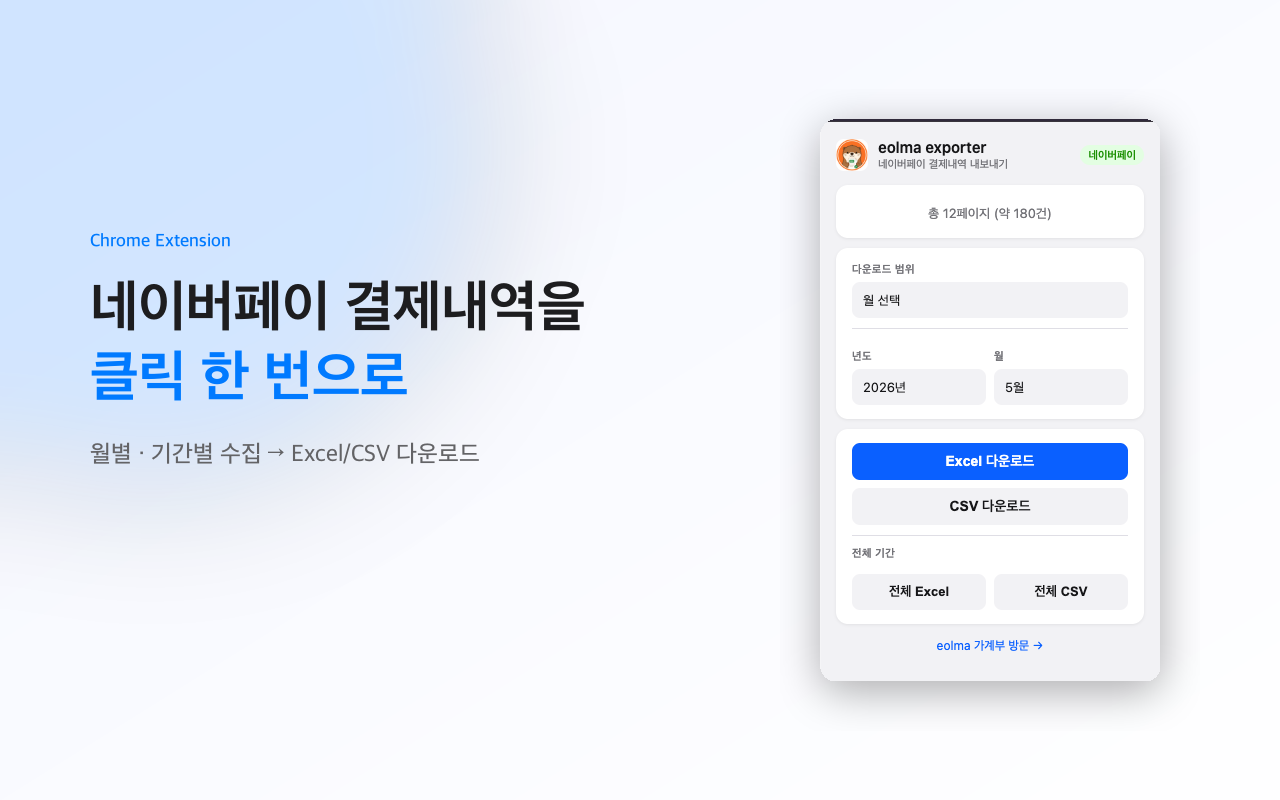
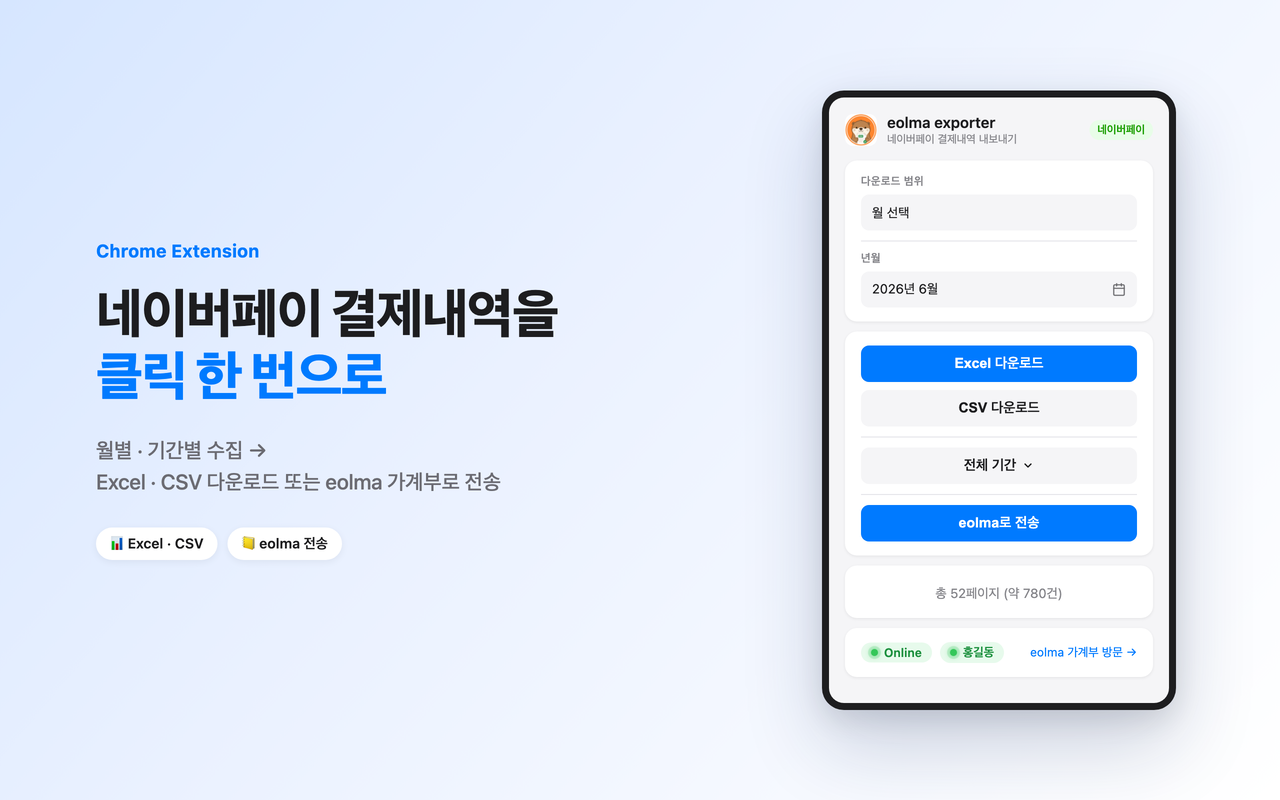
chore(store): refresh screenshots to v0.2.0 and add promo tile
Recompose KO store screenshots (1280x800) in the v0.1.0 design language
for the v0.2.0 UI (year-month unified, eolma upload, Online/login pills):
naverpay/coupang heroes + browser-context scene. Add 440x280 promo tile
and raw popup captures under raw/. Archive v0.1.0 shots to changes/v0.1.0/.

diff --git a/screenshots/README.md b/screenshots/README.md
@@ -1,0 +1,39 @@
+# 스토어 에셋
+
+Chrome 웹 스토어 등록용 이미지. **현재 버전: v0.2.0** (한국어).
+
+## 스토어 스크린샷 (1280×800)
+
+v0.1.0 과 동일한 디자인 언어 — 좌측 카피(라벨 + 헤드라인 + 서브) + 다크 베젤 프레임 팝업.
+
+| 파일 | 장면 |
+|---|---|
+| `store-ko-naverpay.png` | 네이버페이 hero — "클릭 한 번으로", Excel·CSV / eolma 전송 |
+| `store-ko-coupang.png` | 쿠팡 hero — "한 번에 정리" |
+| `store-ko-browser.png` | 사용 맥락 — 결제내역 페이지 + 툴바 아이콘 + 앵커 팝업 |
+
+## 메인 프로모 타일
+
+| 파일 | 크기 | 용도 |
+|---|---|---|
+| `promo-tile-440x280.png` | 440×280 | 스토어 검색·진열 시 한눈에 보이는 메인 그래픽 |
+
+## 원본 팝업 캡처 (`raw/`)
+
+합성 전 순수 팝업 렌더. 재합성·검수용 소스.
+
+| 파일 | 상태 |
+|---|---|
+| `raw/popup-ko-naverpay.png` | 네이버페이 — 로그인(홍길동)·Online |
+| `raw/popup-ko-coupang.png` | 쿠팡 — 로그인(홍길동)·Online |
+| `raw/popup-ko-unsupported.png` | 미지원 페이지 안내 — 이동 버튼·Online·미로그인 |
+
+## 이전 버전
+
+`changes/v0.1.0/` 에 버전별로 보관.
+
+---
+
+### 재생성 방법
+
+실제 `src/popup.html` 의 인라인 CSS 를 추출해 한국어 상태를 구성하고, headless Chrome(`ko-KR`, 2×)으로 렌더한 뒤 1280×800·440×280 으로 다운스케일한다. 폰트·여백·색이 실제 익스텐션과 일치한다. (년월 필드는 헤드리스가 영문으로 렌더해 한국어 Chrome 실제 표시인 "2026년 6월" 로 맞춤. 로그인 사용자명은 데모용 홍길동.)

diff --git a/screenshots/changes/v0.1.0/README.md b/screenshots/changes/v0.1.0/README.md
@@ -1,0 +1,11 @@
+# v0.1.0 스토어 스크린샷 (이전 기록)
+
+`eolma-exporter` **v0.1.0** 시점의 Chrome 웹 스토어 등록용 스크린샷이다.
+이후 UI가 바뀌어 더 이상 현재 버전을 반영하지 않으므로 이력 보존용으로 이 폴더에 남긴다.
+
+| 파일 | 설명 |
+|---|---|
+| `store-ko-naverpay.png` | 네이버페이 주문내역 페이지에서의 팝업 (한국어) |
+| `store-ko-naverpay-browser.png` | 브라우저 화면 맥락 포함 (한국어) |
+
+현재 버전 스크린샷은 상위 `screenshots/` 폴더를 참조.
